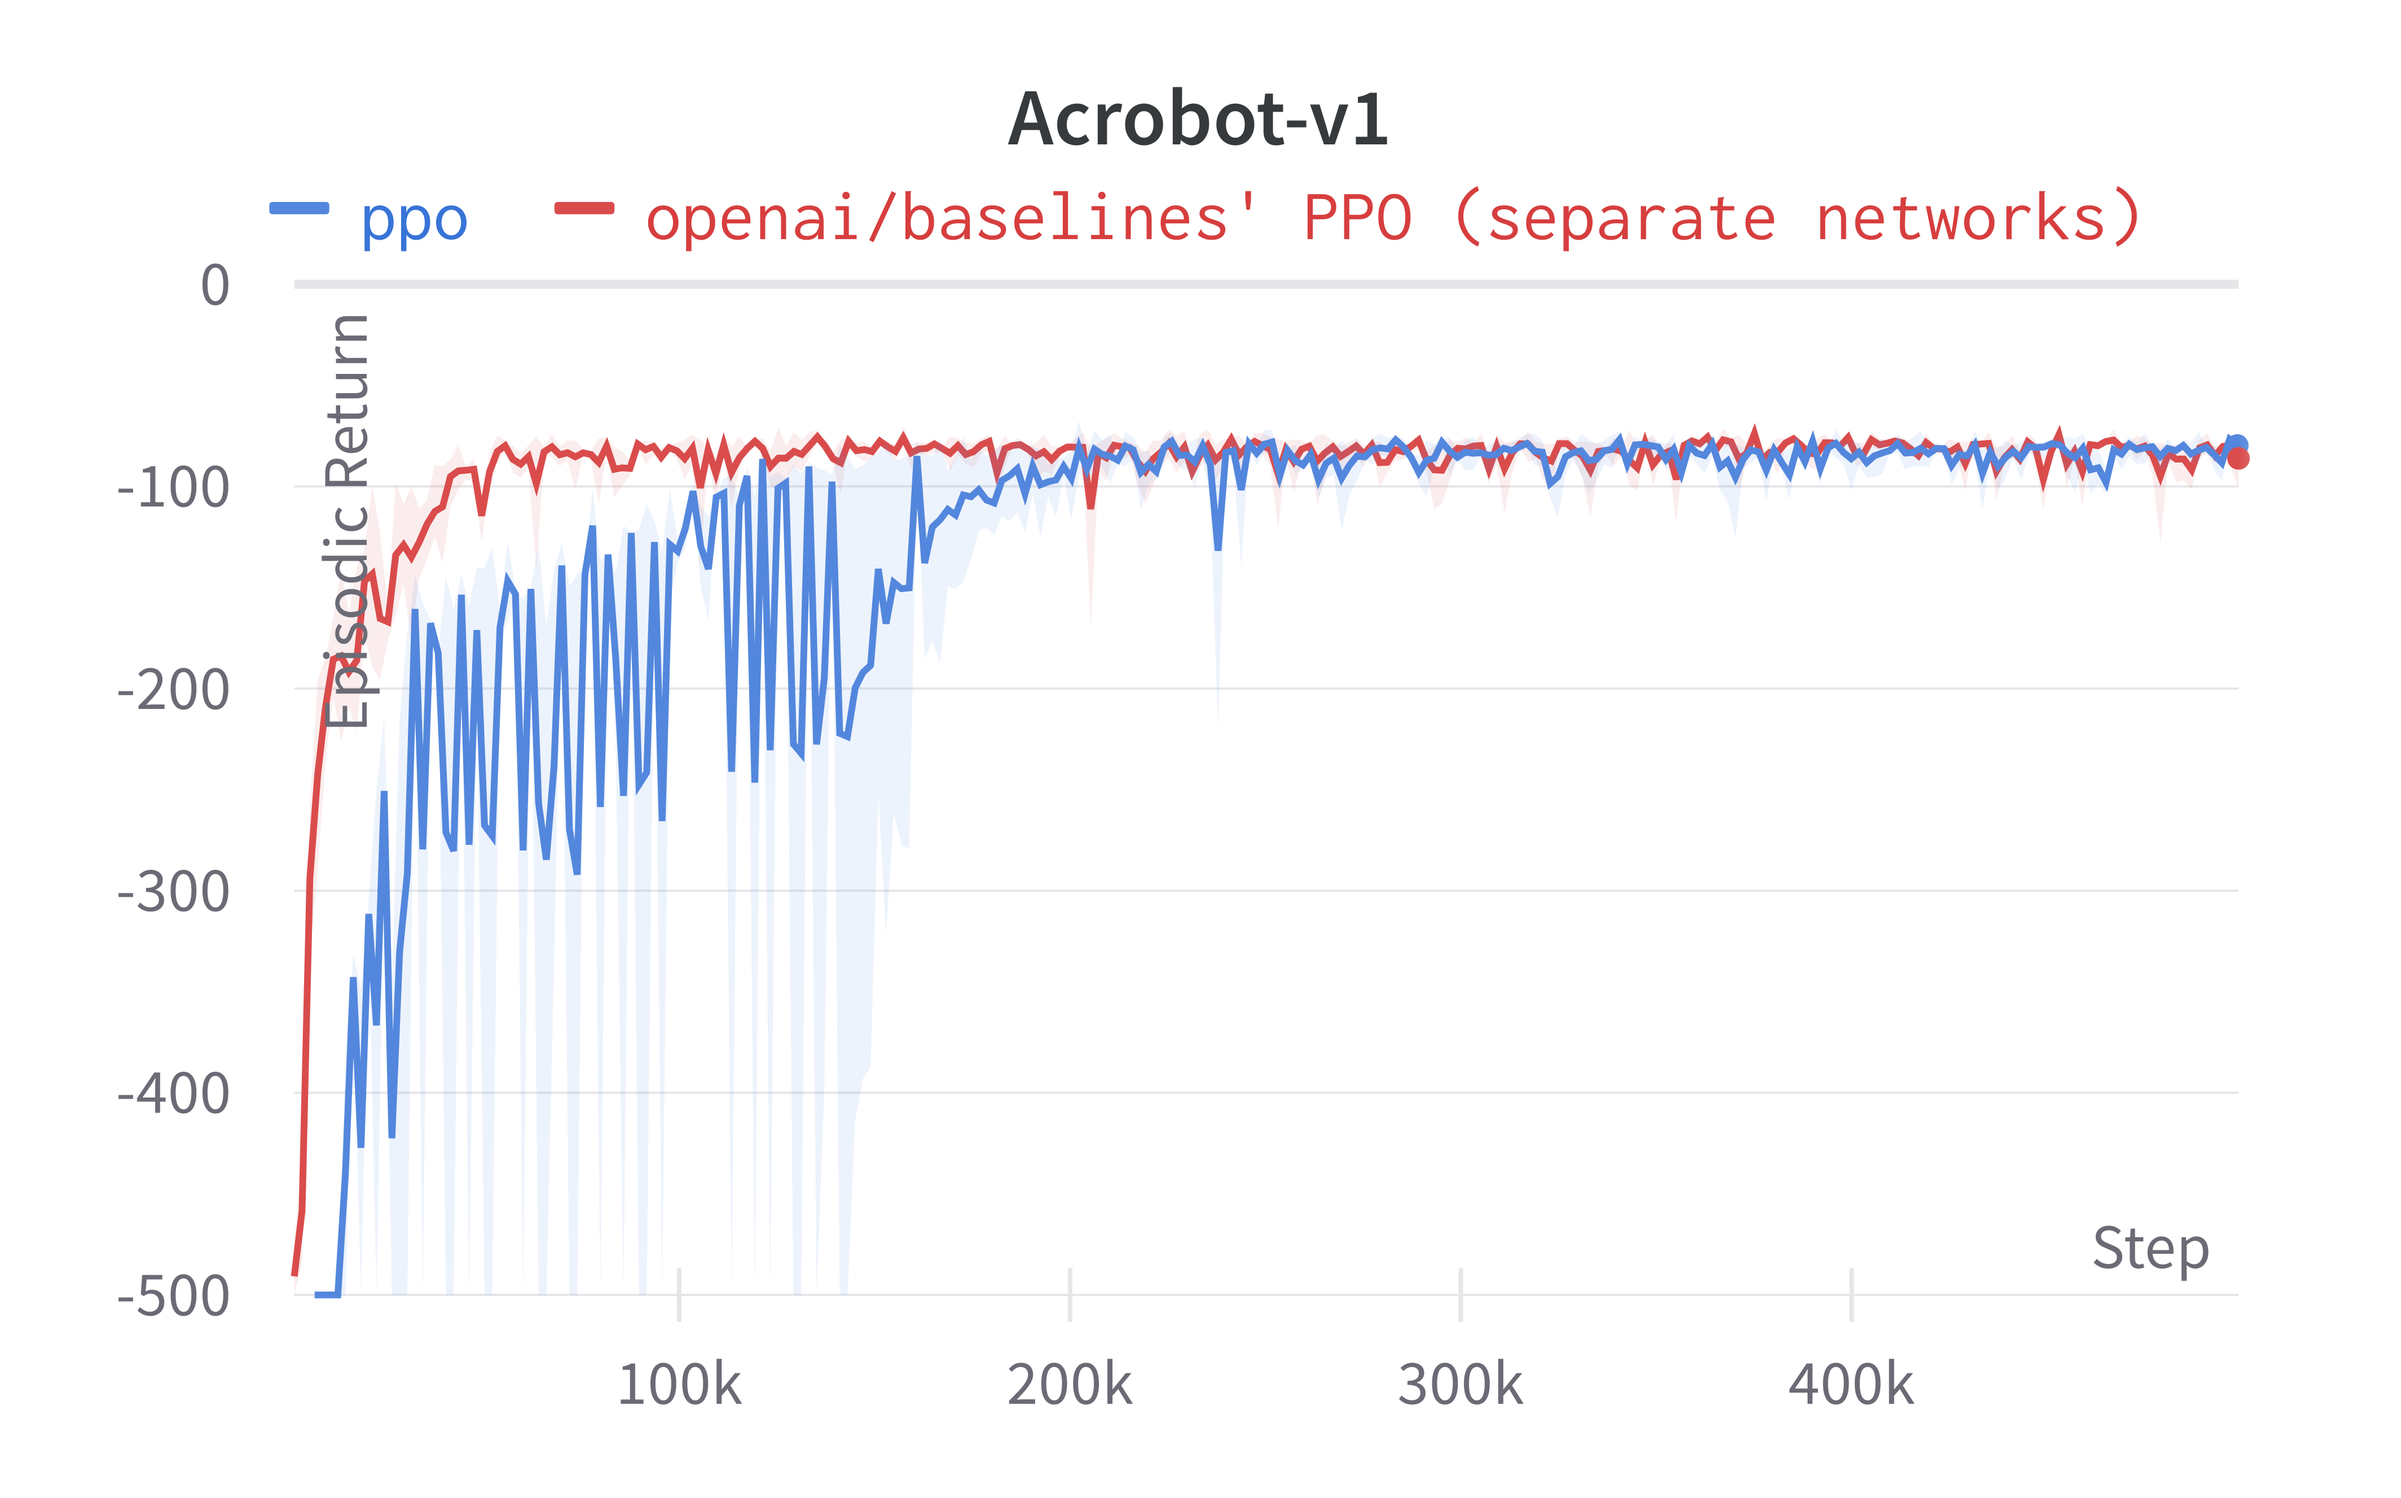
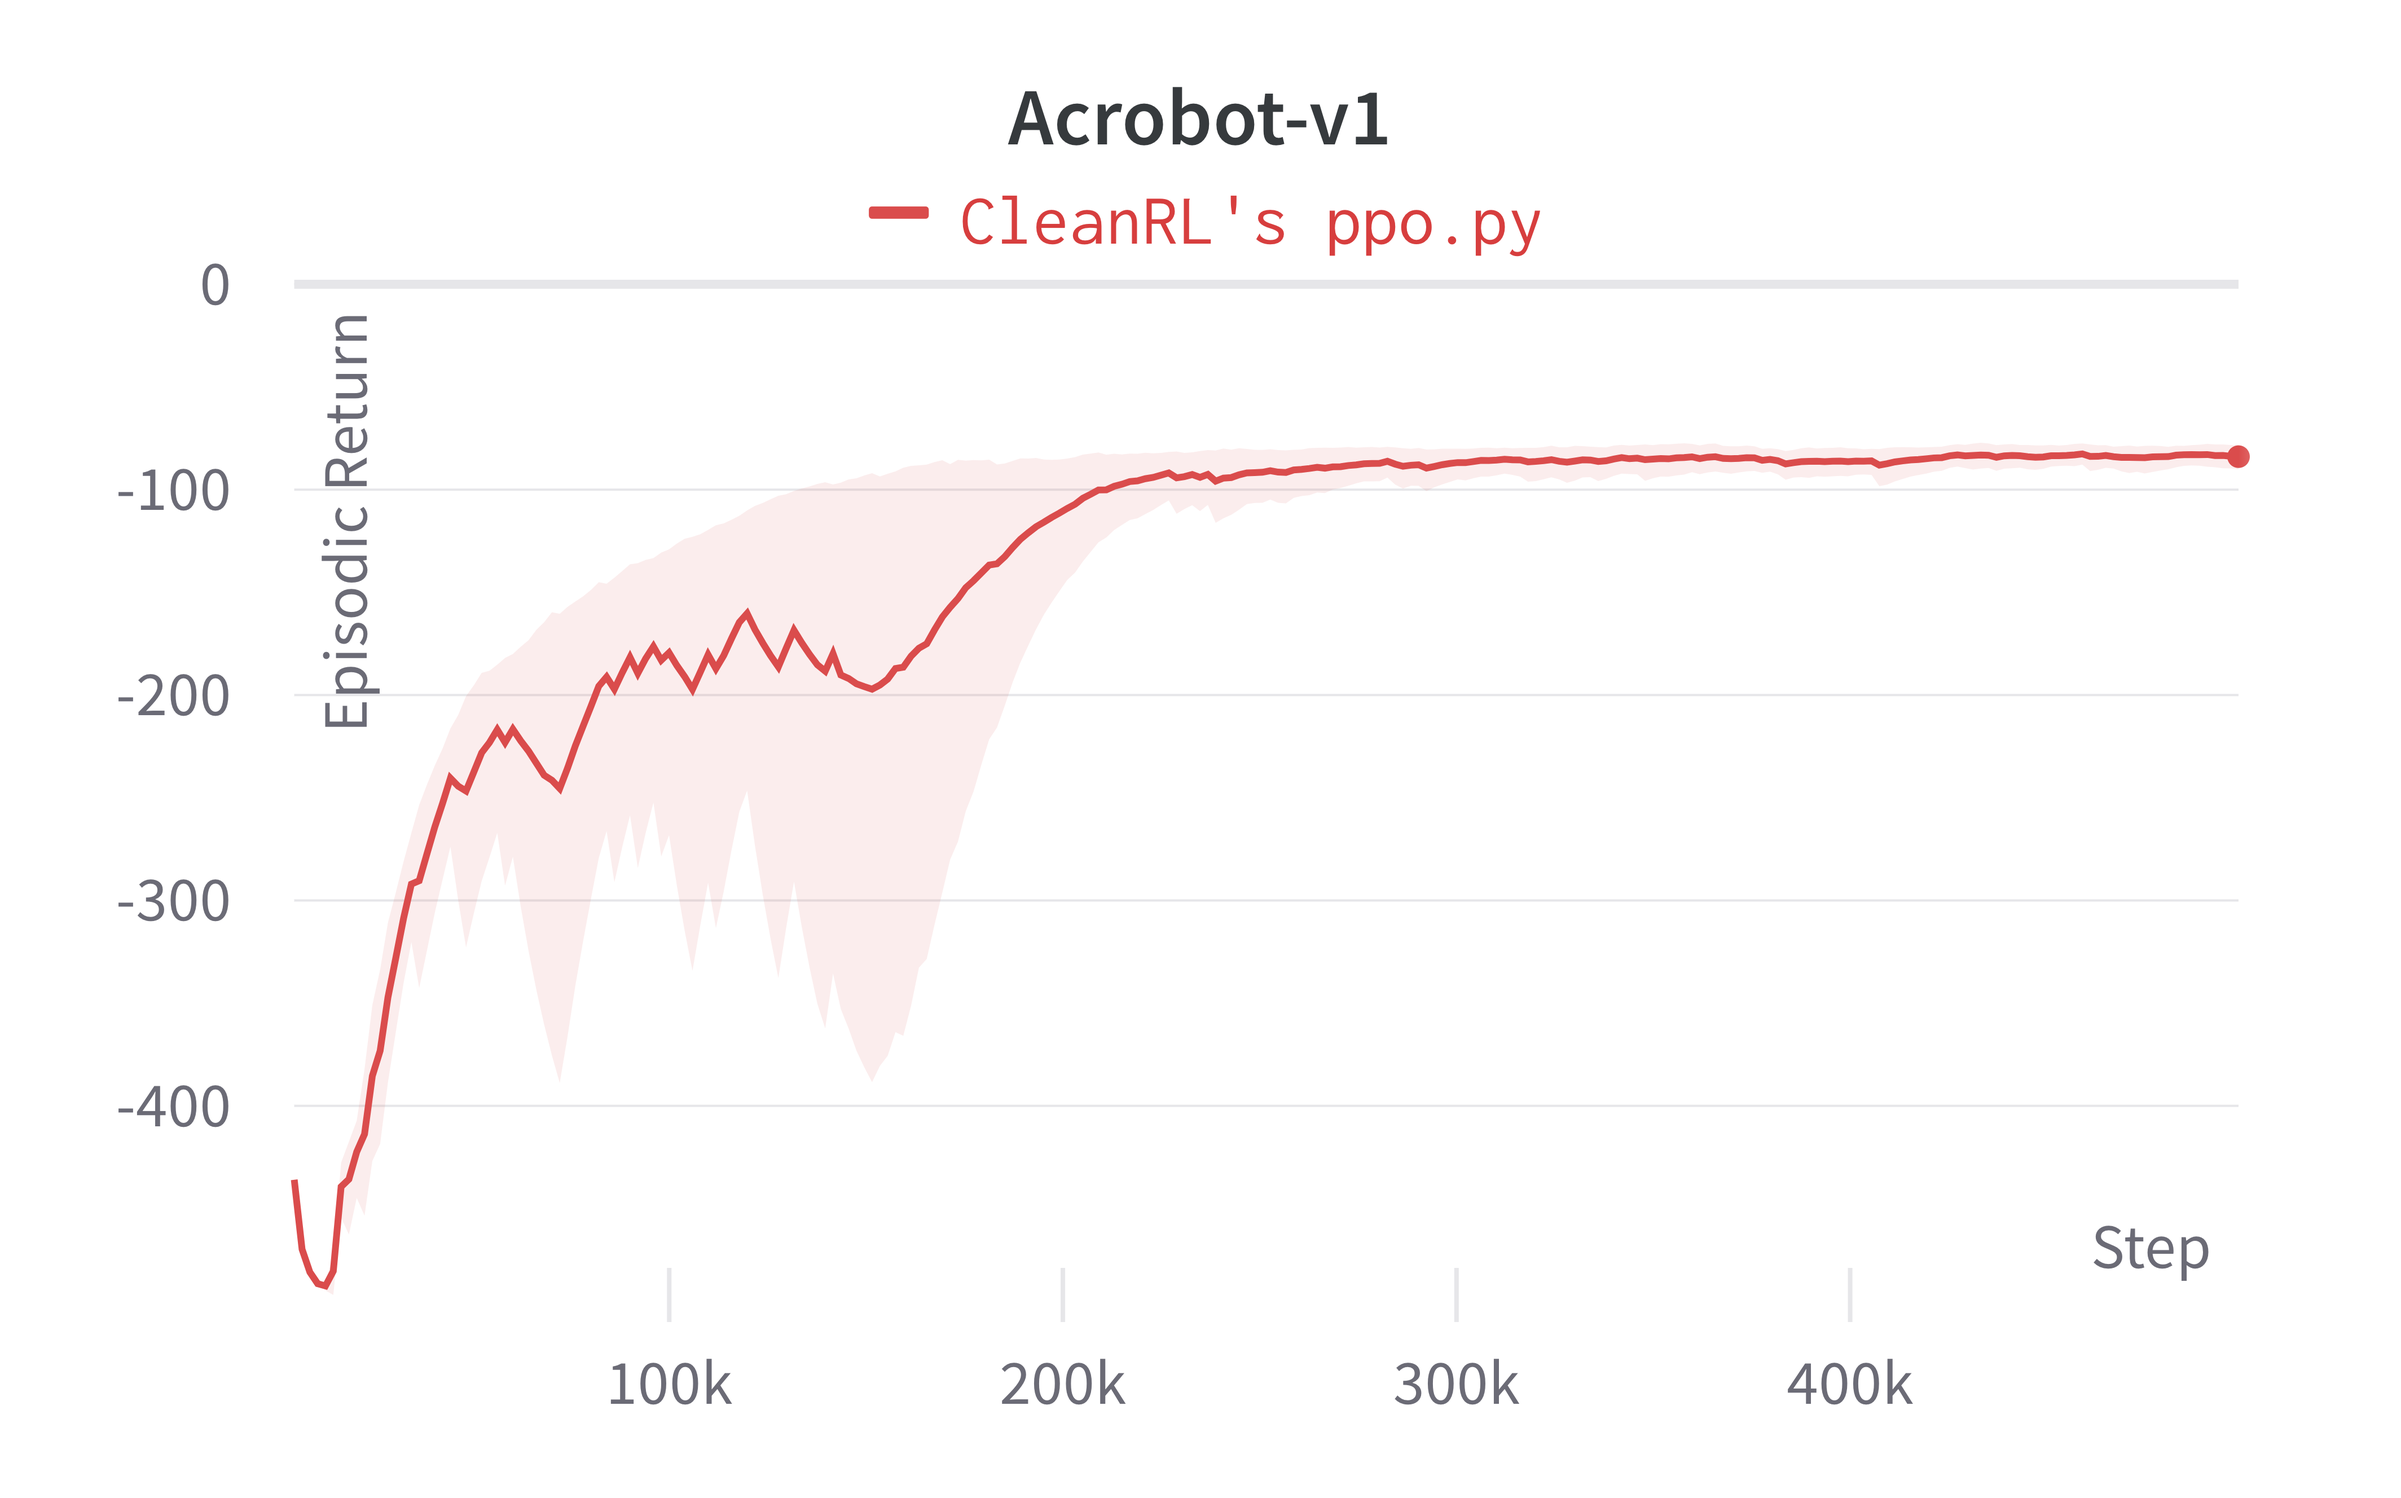
Add documentation

diff --git a/docs/rl-algorithms/ppo.md b/docs/rl-algorithms/ppo.md
@@ -16,7 +16,7 @@ Reference resources:
 * [What Matters In On-Policy Reinforcement Learning? A Large-Scale Empirical Study](https://arxiv.org/abs/2006.05990)
 * ⭐ [The 37 Implementation Details of Proximal Policy Optimization](https://iclr-blog-track.github.io/2022/03/25/ppo-implementation-details/)
 
-All our PPO implementations below are augmented with the same code-level optimizations presented in `openai/baselines`'s [PPO](https://github.com/openai/baselines/tree/master/baselines/ppo2). To acheive this, see how we matched the implementation details in our blog post [The 37 Implementation Details of Proximal Policy Optimization](https://iclr-blog-track.github.io/2022/03/25/ppo-implementation-details/).
+All our PPO implementations below are augmented with the same code-level optimizations presented in `openai/baselines`'s [PPO](https://github.com/openai/baselines/tree/master/baselines/ppo2). To achieve this, see how we matched the implementation details in our blog post [The 37 Implementation Details of Proximal Policy Optimization](https://iclr-blog-track.github.io/2022/03/25/ppo-implementation-details/).
 
 ## Implemented Variants
 
@@ -70,10 +70,10 @@ PR :material-github: [vwxyzjn/cleanrl#120](https://github.com/vwxyzjn/cleanrl/pu
 
 Below are the average episodic returns for `ppo.py`. To ensure the quality of the implementation, we compared the results against `openai/baselies`' PPO.
 
-| Environment      | `ppo.py` | `openai/baselies`' PPO
+| Environment      | `ppo.py` | `openai/baselies`' PPO (Huang et al., 2022)[^1]
 | ----------- | ----------- | ----------- |
-| CartPole-v1      | 488.75 ± 18.40      |497.54 ± 4.02  |
-| Acrobot-v1   | -82.48 ± 5.93     |  -81.82 ± 5.58 |
+| CartPole-v1      | 492.40 ± 13.05     |497.54 ± 4.02  |
+| Acrobot-v1   | -89.93 ± 6.34     |  -81.82 ± 5.58 |
 | MountainCar-v0   | -200.00 ± 0.00         | -200.00 ± 0.00 |
 
 
@@ -90,7 +90,7 @@ Learning curves:
 
 Tracked experiments and game play videos:
 
-<iframe src="https://wandb.ai/cleanrl/benchmark/reports/ppo-py-v1-Classic-Control---VmlldzoxNTk2NjE4" style="width:100%; height:500px" title="CleanRL CartPole-v1 Example"></iframe>
+<iframe src="https://wandb.ai/openrlbenchmark/openrlbenchmark/reports/Classic-Control-CleanRL-s-PPO--VmlldzoxODU5MDY1" style="width:100%; height:500px" title="Classic-Control-CleanRL-s-PPO"></iframe>
 
 ### Video tutorial
 
@@ -112,56 +112,52 @@ The [ppo_atari.py](https://github.com/vwxyzjn/cleanrl/blob/master/cleanrl/ppo_at
 ### Usage
 
 ```bash
-poetry install
-python cleanrl/ppo.py --help
-python cleanrl/ppo.py --env-id CartPole-v1
+poetry install -E atari
+python cleanrl/ppo_atari.py --help
+python cleanrl/ppo_atari.py --env-id BreakoutNoFrameskip-v4
 ```
 
 ### Implementation details
 
-[ppo.py](https://github.com/vwxyzjn/cleanrl/blob/master/cleanrl/ppo.py) is based on the "13 core implementation details" in [The 37 Implementation Details of Proximal Policy Optimization](https://iclr-blog-track.github.io/2022/03/25/ppo-implementation-details/), which are as follows:
+[ppo_atari.py](https://github.com/vwxyzjn/cleanrl/blob/master/cleanrl/ppo_atari.py) is based on the "9 core implementation details" in [The 37 Implementation Details of Proximal Policy Optimization](https://iclr-blog-track.github.io/2022/03/25/ppo-implementation-details/), which are as follows:
 
-1. Vectorized architecture (:material-github: [common/cmd_util.py#L22](https://github.com/openai/baselines/blob/ea25b9e8b234e6ee1bca43083f8f3cf974143998/baselines/common/cmd_util.py#L22))
-1. Orthogonal Initialization of Weights and Constant Initialization of biases (:material-github: [a2c/utils.py#L58)](https://github.com/openai/baselines/blob/ea25b9e8b234e6ee1bca43083f8f3cf974143998/baselines/a2c/utils.py#L58))
-1. The Adam Optimizer's Epsilon Parameter (:material-github: [ppo2/model.py#L100](https://github.com/openai/baselines/blob/ea25b9e8b234e6ee1bca43083f8f3cf974143998/baselines/ppo2/model.py#L100))
-1. Adam Learning Rate Annealing (:material-github: [ppo2/ppo2.py#L133-L135](https://github.com/openai/baselines/blob/ea25b9e8b234e6ee1bca43083f8f3cf974143998/baselines/ppo2/ppo2.py#L133-L135))
-1. Generalized Advantage Estimation (:material-github: [ppo2/runner.py#L56-L65](https://github.com/openai/baselines/blob/ea25b9e8b234e6ee1bca43083f8f3cf974143998/baselines/ppo2/runner.py#L56-L65))
-1. Mini-batch Updates (:material-github: [ppo2/ppo2.py#L157-L166](https://github.com/openai/baselines/blob/ea25b9e8b234e6ee1bca43083f8f3cf974143998/baselines/ppo2/ppo2.py#L157-L166))
-1. Normalization of Advantages (:material-github: [ppo2/model.py#L139](https://github.com/openai/baselines/blob/ea25b9e8b234e6ee1bca43083f8f3cf974143998/baselines/ppo2/model.py#L139))
-1. Clipped surrogate objective (:material-github: [ppo2/model.py#L81-L86](https://github.com/openai/baselines/blob/ea25b9e8b234e6ee1bca43083f8f3cf974143998/baselines/ppo2/model.py#L81-L86))
-1. Value Function Loss Clipping (:material-github: [ppo2/model.py#L68-L75](https://github.com/openai/baselines/blob/ea25b9e8b234e6ee1bca43083f8f3cf974143998/baselines/ppo2/model.py#L68-L75))
-1. Overall Loss and Entropy Bonus (:material-github: [ppo2/model.py#L91](https://github.com/openai/baselines/blob/ea25b9e8b234e6ee1bca43083f8f3cf974143998/baselines/ppo2/model.py#L91))
-1. Global Gradient Clipping (:material-github: [ppo2/model.py#L102-L108](https://github.com/openai/baselines/blob/ea25b9e8b234e6ee1bca43083f8f3cf974143998/baselines/ppo2/model.py#L102-L108))
-1. Debug variables (:material-github: [ppo2/model.py#L115-L116](https://github.com/openai/baselines/blob/ea25b9e8b234e6ee1bca43083f8f3cf974143998/baselines/ppo2/model.py#L115-L116))
-1. Separate MLP networks for policy and value functions (:material-github: [common/policies.py#L156-L160](https://github.com/openai/baselines/blob/ea25b9e8b234e6ee1bca43083f8f3cf974143998/baselines/common/policies.py#L156-L160), [baselines/common/models.py#L75-L103](https://github.com/openai/baselines/blob/ea25b9e8b234e6ee1bca43083f8f3cf974143998/baselines/common/models.py#L75-L103))
+1. The Use of `NoopResetEnv` (:material-github: [common/atari_wrappers.py#L12](https://github.com/openai/baselines/blob/ea25b9e8b234e6ee1bca43083f8f3cf974143998/baselines/common/atari_wrappers.py#L12)) 
+1. The Use of `MaxAndSkipEnv` (:material-github: [common/atari_wrappers.py#L97](https://github.com/openai/baselines/blob/ea25b9e8b234e6ee1bca43083f8f3cf974143998/baselines/common/atari_wrappers.py#L97)) 
+1. The Use of `EpisodicLifeEnv` (:material-github: [common/atari_wrappers.py#L61](https://github.com/openai/baselines/blob/ea25b9e8b234e6ee1bca43083f8f3cf974143998/baselines/common/atari_wrappers.py#L61)) 
+1. The Use of `FireResetEnv` (:material-github: [common/atari_wrappers.py#L41](https://github.com/openai/baselines/blob/ea25b9e8b234e6ee1bca43083f8f3cf974143998/baselines/common/atari_wrappers.py#L41)) 
+1. The Use of `WarpFrame` (Image transformation) [common/atari_wrappers.py#L134](https://github.com/openai/baselines/blob/ea25b9e8b234e6ee1bca43083f8f3cf974143998/baselines/common/atari_wrappers.py#L134) 
+1. The Use of `ClipRewardEnv` (:material-github: [common/atari_wrappers.py#L125](https://github.com/openai/baselines/blob/ea25b9e8b234e6ee1bca43083f8f3cf974143998/baselines/common/atari_wrappers.py#L125)) 
+1. The Use of `FrameStack` (:material-github: [common/atari_wrappers.py#L188](https://github.com/openai/baselines/blob/ea25b9e8b234e6ee1bca43083f8f3cf974143998/baselines/common/atari_wrappers.py#L188)) 
+1. Shared Nature-CNN network for the policy and value functions (:material-github: [common/policies.py#L157](https://github.com/openai/baselines/blob/ea25b9e8b234e6ee1bca43083f8f3cf974143998/baselines/common/policies.py#L157), [common/models.py#L15-L26](https://github.com/openai/baselines/blob/ea25b9e8b234e6ee1bca43083f8f3cf974143998/baselines/common/models.py#L15-L26))
+1. Scaling the Images to Range [0, 1] (:material-github: [common/models.py#L19](https://github.com/openai/baselines/blob/9b68103b737ac46bc201dfb3121cfa5df2127e53/baselines/common/models.py#L19))
 
 ### Experiment results
 
 PR :material-github: [vwxyzjn/cleanrl#120](https://github.com/vwxyzjn/cleanrl/pull/120) tracks our effort to conduct experiments, and the reprodudction instructions can be found at :material-github: [vwxyzjn/cleanrl/benchmark/ppo](https://github.com/vwxyzjn/cleanrl/tree/master/benchmark/ppo).
 
-Below are the average episodic returns for `ppo.py`. To ensure the quality of the implementation, we compared the results against `openai/baselies`' PPO.
+Below are the average episodic returns for `ppo_atari.py`. To ensure the quality of the implementation, we compared the results against `openai/baselies`' PPO.
 
-| Environment      | `ppo.py` | `openai/baselies`' PPO
+| Environment      | `ppo_atari.py` | `openai/baselies`' PPO
 | ----------- | ----------- | ----------- |
-| CartPole-v1      | 488.75 ± 18.40      |497.54 ± 4.02  |
-| Acrobot-v1   | -82.48 ± 5.93     |  -81.82 ± 5.58 |
-| MountainCar-v0   | -200.00 ± 0.00         | -200.00 ± 0.00 |
+| BreakoutNoFrameskip-v4      | 416.31 ± 43.92     | 406.57 ± 31.554  |
+| PongNoFrameskip-v4   | 20.59 ± 0.35    |  20.512 ± 0.50 |
+| BeamRiderNoFrameskip-v4   | 2445.38 ± 528.91         | 2642.97 ± 670.37 |
 
 
 Learning curves:
 
 <div class="grid-container">
-<img src="../ppo/CartPole-v1.png">
+<img src="../ppo/BreakoutNoFrameskip-v4.png">
 
-<img src="../ppo/Acrobot-v1.png">
+<img src="../ppo/PongNoFrameskip-v4.png">
 
-<img src="../ppo/MountainCar-v0.png">
+<img src="../ppo/BeamRiderNoFrameskip-v4.png">
 </div>
 
 
 Tracked experiments and game play videos:
 
-<iframe src="https://wandb.ai/cleanrl/benchmark/reports/ppo-py-v1-Classic-Control---VmlldzoxNTk2NjE4" style="width:100%; height:500px" title="CleanRL CartPole-v1 Example"></iframe>
+<iframe src="https://wandb.ai/openrlbenchmark/openrlbenchmark/reports/Atari-CleanRL-s-PPO--VmlldzoxNjk3NjYy" style="width:100%; height:500px" title="Atari-CleanRL-s-PPO"></iframe>
 
 ### Video tutorial
 
@@ -180,3 +176,6 @@ The [ppo_continuous_action.py](https://github.com/vwxyzjn/cleanrl/blob/master/cl
 * Works with the `Box` (continuous) action space
 * Includes the 8 implementation details for  as shown in the following video tutorial (need fixing)
   [![PPO3](ppo/ppo-3-title.png)](https://youtu.be/05RMTj-2K_Y)
+
+
+[^1]: Huang, Shengyi; Dossa, Rousslan Fernand Julien; Raffin, Antonin; Kanervisto, Anssi; Wang, Weixun (2022). The 37 Implementation Details of Proximal Policy Optimization. ICLR 2022 Blog Track https://iclr-blog-track.github.io/2022/03/25/ppo-implementation-details/
